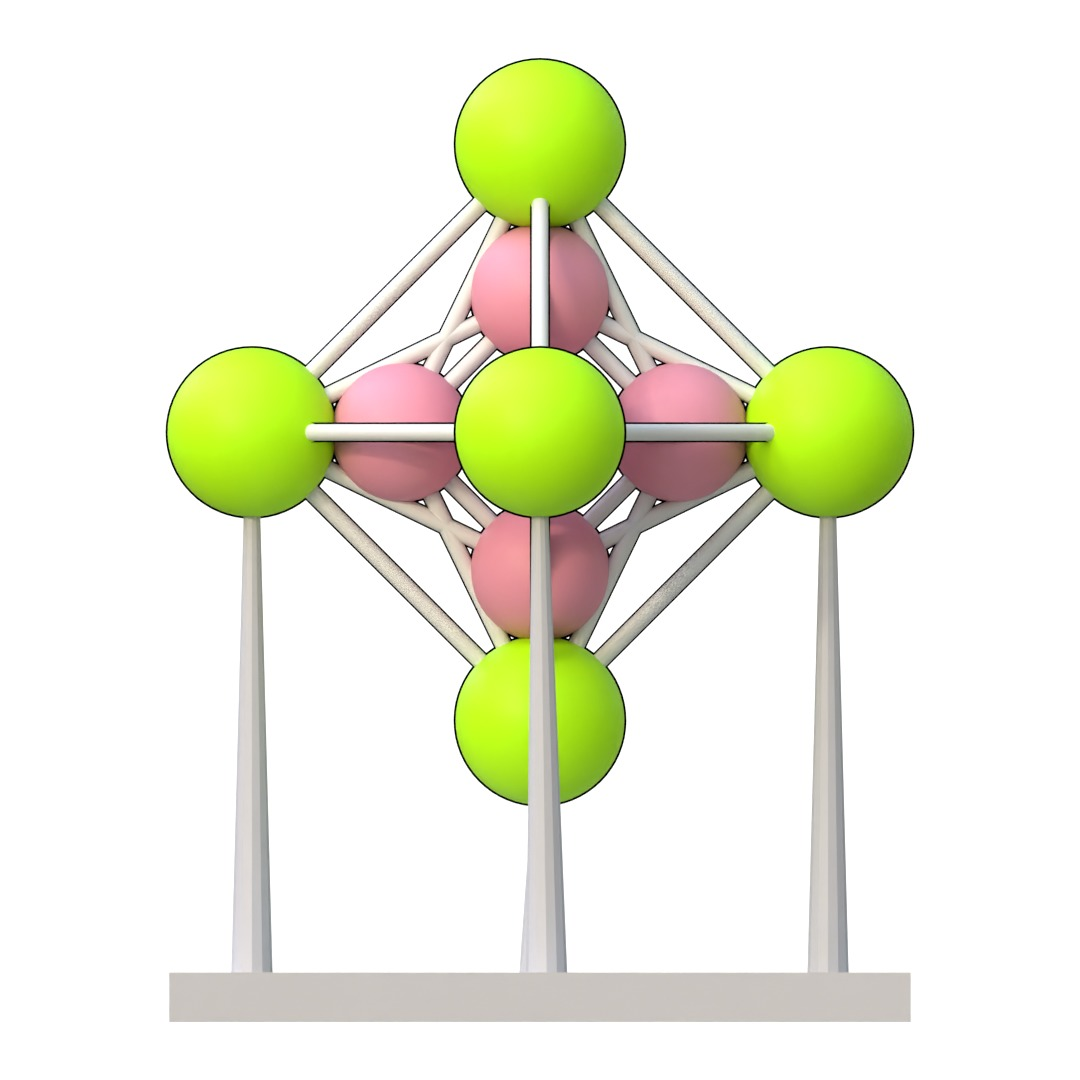
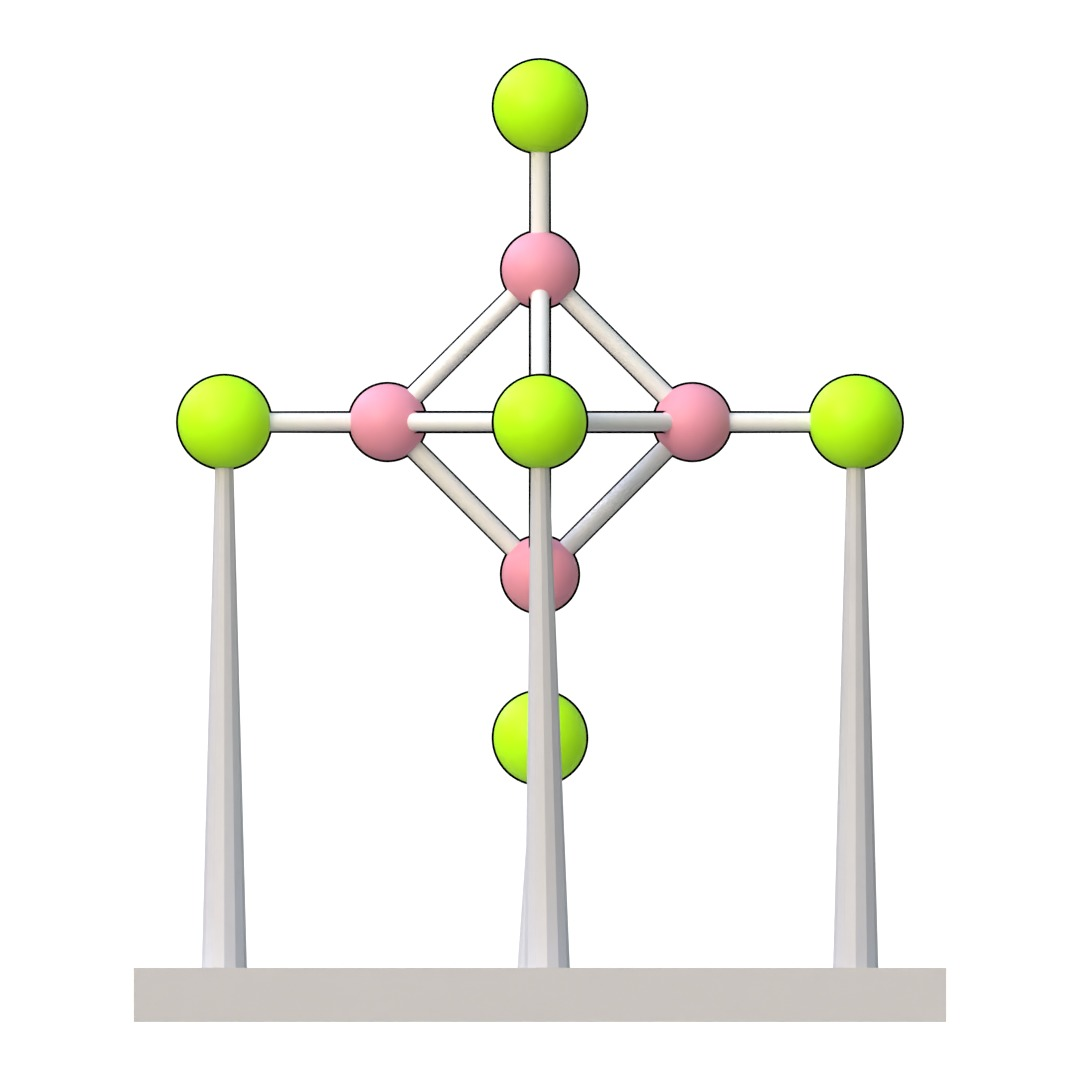
Apply the atom scale to the mesh data; print panel back to scale 0.5
draw_atoms meant to apply each atom's scale but called transform_apply
while only the reference sphere was selected, so every atom object
carried an unapplied object scale. Bake the scale into each copy's mesh
data instead (no operator, no selection games), and have export_3dprint
bake any leftover scale from scenes imported before this fix so the
STLs always match what is on screen. Re-render the boron-cluster panel
at the default atom scale 0.5 (bond cutoff stays 0.75).

diff --git a/blender_importASE/drawobjects.py b/blender_importASE/drawobjects.py
@@ -1,6 +1,6 @@
 import bpy
 import bmesh
-from mathutils import Vector
+from mathutils import Matrix, Vector
 import ase
 from ase.data import covalent_radii
 from .utils import get_vdw_radius
@@ -43,12 +43,12 @@ def draw_atoms(atoms, scale=1,resolution=16, representation="Balls'n'Sticks"):
         bpy.context.view_layer.active_layer_collection.collection.objects[-1].data.materials.append(
             bpy.data.materials[atom.symbol])
         cnt += 1
-        #full_object_name = bpy.utils.object.full_name(ob)
-        #print(full_object_name)
-        #list_of_atoms.append(full_object_name)
-        #print(ob)
         list_of_atoms.append(ob)
-        bpy.ops.object.transform_apply(location=False,rotation=False,scale=True)
+        # bake the scale into the mesh data (each copy owns its data). The
+        # old transform_apply operator acted on the still-selected reference
+        # sphere, so atoms carried an unapplied object scale forever.
+        ob.data.transform(Matrix.Diagonal((*size, 1.0)))
+        ob.scale = (1.0, 1.0, 1.0)
     bpy.ops.object.select_all(action='DESELECT')
     bpy.data.objects[sphere.name].select_set(True)
     bpy.ops.object.delete()

diff --git a/blender_importASE/exports.py b/blender_importASE/exports.py
@@ -14,7 +14,7 @@ import math
 
 import bpy
 import numpy as np
-from mathutils import Vector
+from mathutils import Matrix, Vector
 from ase import Atoms
 from ase.data import chemical_symbols
 import ase.io
@@ -375,6 +375,14 @@ def export_3dprint(context, filepath, generate_supports=True,
     first time, when none exist yet.
     """
     collection, groups, bonds, supports = collect_print_objects(context)
+
+    # bake any unapplied object scale into the mesh data before exporting
+    # (scenes imported before the draw_atoms fix carry scaled atom objects)
+    for group in groups.values():
+        for ob in group:
+            if tuple(ob.scale) != (1.0, 1.0, 1.0):
+                ob.data.transform(Matrix.Diagonal((*ob.scale, 1.0)))
+                ob.scale = (1.0, 1.0, 1.0)
 
     if not supports and generate_supports:
         supports = rebuild_supports(context, base_radius=base_radius,
